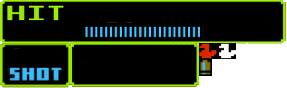
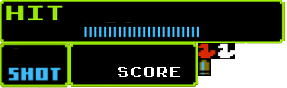
adding score and round display + functionality

diff --git a/driver.py b/driver.py
@@ -4,11 +4,16 @@ import gun, duck
 from gun import Gun
 from duck import Duck
 
-HIT_POSITION = 255, 440
+HIT_POSITION = 245, 440
 HIT_RECT = 0, 0, 287, 43
-HIT_DUCK_POSITION = 339, 445
+HIT_DUCK_POSITION = 329, 445
 HIT_DUCK_WHITE_RECT = 217, 43, 19, 16
 HIT_DUCK_RED_RECT = 199, 43, 19, 16
+SCORE_POSITION = 620, 440
+SCORE_RECT = 69, 43, 128, 43
+FONT = os.path.join('media', 'arcadeclassic.ttf')
+FONT_STARTING_POSITION = 730, 442
+ROUND_POSITION = 60, 410
 
 class Driver(object):
     def __init__(self, surface):
@@ -32,13 +37,12 @@ class Driver(object):
             gunFired = self.gun.shoot()
             for duck in self.ducks:
                 if gunFired:
-                    if (duck.isShot(event.pos)):
+                    if duck.isShot(event.pos):
                         self.score += 10
                         self.hitDucks[self.hitDuckIndex] = True
                         self.hitDuckIndex += 1
                 else:
                     duck.flyOff = True
-                    self.hitDuckIndex += 1
 
     def update(self):
         allDone = False
@@ -50,10 +54,16 @@ class Driver(object):
         self.manageRound()
 
     def render(self):
+        # Show the ducks
         for duck in self.ducks:
             duck.render()
 
-        # Update game controls
+        # Show round number
+        font = pygame.font.Font(FONT, 20)
+        text = font.render(("R= %d" % self.round), True, (154, 233, 0), (0, 0, 0));
+        self.surface.blit(text, ROUND_POSITION);
+
+        # Show the hit counter
         self.surface.blit(self.controlImgs, HIT_POSITION, HIT_RECT)
         startingX, startingY = HIT_DUCK_POSITION
         for i in range(10):
@@ -64,6 +74,15 @@ class Driver(object):
             else:
                 self.surface.blit(self.controlImgs, (x, y), HIT_DUCK_WHITE_RECT)
 
+        # Show the score
+        self.surface.blit(self.controlImgs, SCORE_POSITION, SCORE_RECT)
+        font = pygame.font.Font(FONT, 20)
+        text = font.render(str(self.score), True, (255, 255, 255));
+        x, y = FONT_STARTING_POSITION
+        x -= text.get_width();
+        self.surface.blit(text, (x,y));
+
+        # Show the cross hairs
         self.gun.render()
 
     def manageRound(self):
